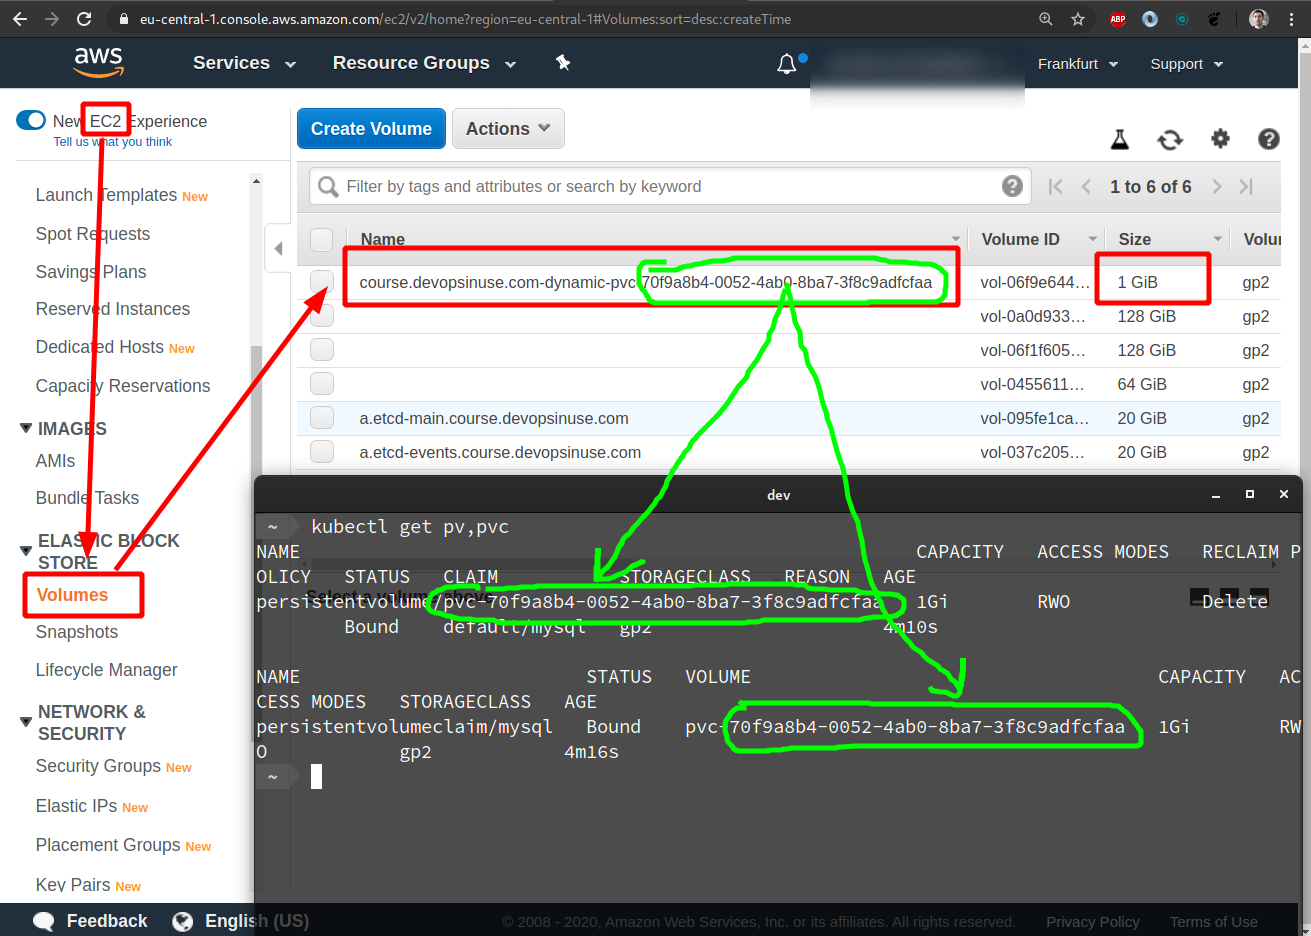
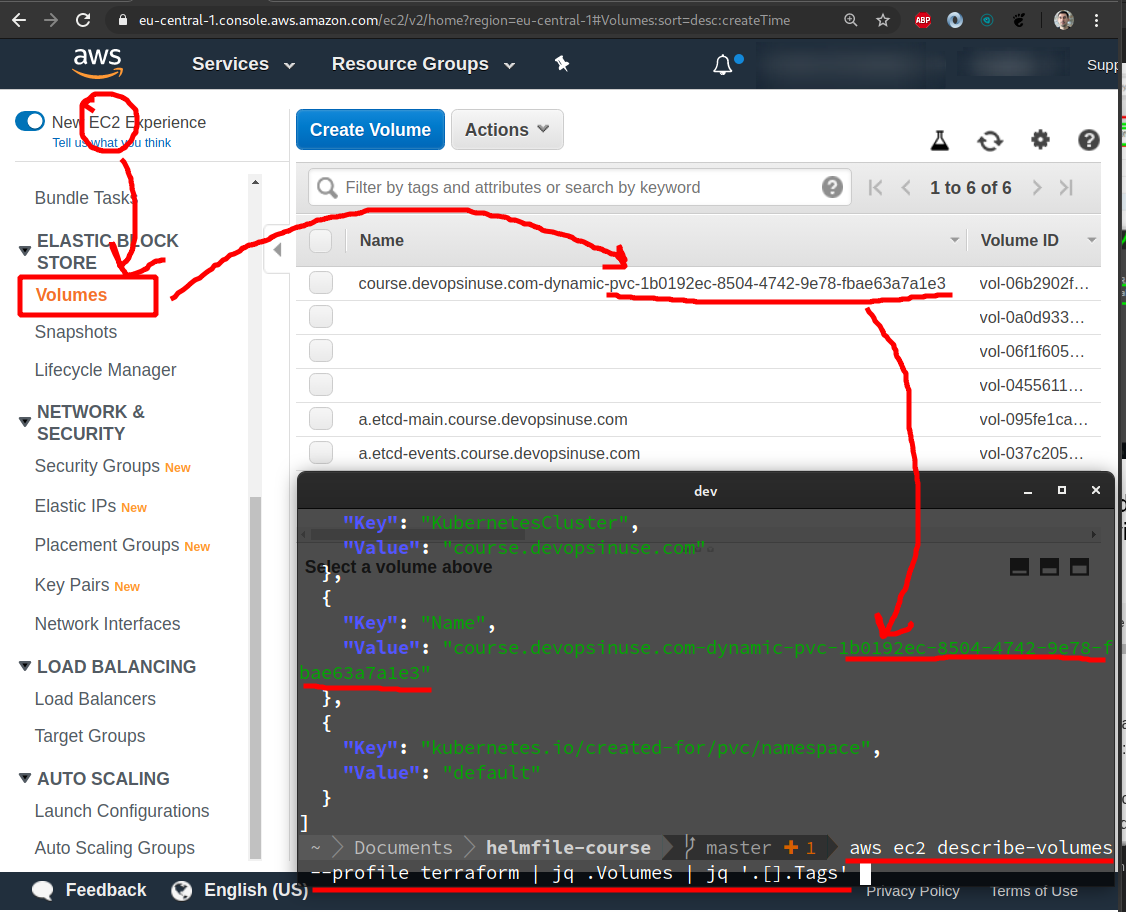
Adding 28,29,30. k8s

Changed region(s): [[0.0, 0.0, 1.0, 1.0]]

diff --git a/Content.md b/Content.md
@@ -32,6 +32,7 @@
   - [27. Allow NodePort in AWS Security Group section manually in case you like it more](#27-allow-nodeport-in-aws-security-group-section-manually-in-case-you-like-it-more)
   - [28. MySQL helm chart deployment with Persistent Volume](#28-mysql-helm-chart-deployment-with-persistent-volume)
   - [29. Connect to your MySQL deployment running in your Kubernetes cluster in AWS via an extra ubuntu pod](#29-connect-to-your-mysql-deployment-running-in-your-kubernetes-cluster-in-aws-via-an-extra-ubuntu-pod)
+  - [30. Connect to your MySQL deployment running in your Kubernetes cluster in AWS via dbeaver or your favourite GUI program](#30-connect-to-your-mysql-deployment-running-in-your-kubernetes-cluster-in-aws-via-dbeaver-or-your-favourite-gui-program)
 
 
 
@@ -1318,6 +1319,10 @@ node	ip-172-20-52-232.eu-central-1.compute.internal	18.196.157.47
 
 <!-- - [28. MySQL helm chart deployment with Persistent Volume](#28-mysql-helm-chart-deployment-with-persistent-volume) -->
 
+![](img/mysql-9.png)
+
+![](img/mysql-10.png)
+
 Search for MySQL helm chart (helm v3):
 ```bash
 helm3 repo list                          
@@ -1333,19 +1338,24 @@ stable/mysql    	1.6.2        	5.7.28     	Fast, reliable, scalable, and easy to
 Try to use `helm3 template` command to see what you are about to be deploying to your Kubernetes cluster in AWS
 
 ```bash
-# deployment.yaml file
+# template your mysql helm chart 
+# before you going to deploy it to Kubenretes cluster
 helm3 template \
 mysql \
 --set persistence.enabled=true \
 --set persistence.size=1Gi \
+--set mysqlRootPassword=Start123 \
 stable/mysql | less
 ```
+
+Deploy **MySQL helm chart** from a **"stable"** helm chart repository
 
 ```bash
 helm3 install \
 mysql \
 --set persistence.enabled=true \
 --set persistence.size=1Gi \
+--set mysqlRootPassword=Start123 \
 stable/mysql 
 
 ...
@@ -1378,12 +1388,48 @@ To connect to your database directly from outside the K8s cluster:
 
 ```
 
+
+```bash
+aws ec2 describe-volumes --profile terraform | jq .Volumes | jq '.[].Tags'
+
+...
+[
+  {
+    "Key": "kubernetes.io/created-for/pv/name",
+    "Value": "pvc-1b0192ec-8504-4742-9e78-fbae63a7a1e3"
+  },
+  {
+    "Key": "kubernetes.io/created-for/pvc/name",
+    "Value": "mysql"
+  },
+  {
+    "Key": "kubernetes.io/cluster/course.devopsinuse.com",
+    "Value": "owned"
+  },
+  {
+    "Key": "KubernetesCluster",
+    "Value": "course.devopsinuse.com"
+  },
+  {
+    "Key": "Name",
+    "Value": "course.devopsinuse.com-dynamic-pvc-1b0192ec-8504-4742-9e78-fbae63a7a1e3"
+  },
+  {
+    "Key": "kubernetes.io/created-for/pvc/namespace",
+    "Value": "default"
+  }
+]
+
+```
+
+
 ![](img/mysql-1.png)
 
 Please check that one **persistent volume has been crerated in your Kubenretes cluster** as well as in **your AWS console**.
 
 ![](img/mysql-2.png)
 
+![](img/mysql-3.png)
 
 ### 29. Connect to your MySQL deployment running in your Kubernetes cluster in AWS via an extra ubuntu pod
 <!-- - [29. Connect to your MySQL deployment running in your Kubernetes cluster in AWS via an extra ubuntu pod](#29-connect-to-your-mysql-deployment-running-in-your-kubernetes-cluster-in-aws-via-an-extra-ubuntu-pod) -->
@@ -1404,29 +1450,31 @@ To **connect to your database**:
     $ apt-get update && apt-get install mysql-client -y
 
 3. **Connect using the mysql cli**, then provide your password:
+```bash
     $ mysql -h mysql -p
+    $ create database devopsinuse;
+```
 
-To **connect to your database directly from outside the K8s cluster**:
-    MYSQL_HOST=127.0.0.1
-    MYSQL_PORT=3306
+![](img/mysql-4.png)
 
-    # Execute the following command to route the connection:
-    kubectl port-forward svc/mysql 3306
-
-    mysql -h ${MYSQL_HOST} -P${MYSQL_PORT} -u root -p${MYSQL_ROOT_PASSWORD}
+![](img/mysql-5.png)
 
 ### 30. Connect to your MySQL deployment running in your Kubernetes cluster in AWS via dbeaver or your favourite GUI program
 
 **Upgrade your MySQL** deployment and add NodePort type of Kubernetes service and set `nodePort` value to 30333
 
 ```bash
-helm3 upgrade \
-mysql \
+helm3 template mysql stable/mysql \
 --set persistence.enabled=true \
 --set persistence.size=1Gi \
---set service.type=NodePort\
---set service.nodePort=30333 \
-stable/mysql 
+--set service.type=NodePort \
+--set service.nodePort=30333 | less
+
+helm3 upgrade mysql stable/mysql \
+--set persistence.enabled=true \
+--set persistence.size=1Gi \
+--set service.type=NodePort \
+--set service.nodePort=30333 
 ```
 
 **Setup SSH tunnel** to MySQL NodePort 20333
@@ -1437,12 +1485,22 @@ ssh -L30333:127.0.0.1:30333 \
 admin@18.184.212.193
 ```
 
-**Determine** root password
-```bash
-MYSQL_ROOT_PASSWORD=$(kubectl get secret --namespace default mysql -o jsonpath="{.data.mysql-root-password}" | base64 --decode; echo)
+![](img/mysql-6.png)
 
-echo $MYSQL_ROOT_PASSWORD
+![](img/mysql-7.png)
+
+![](img/mysql-8.png)
+
+To **delete mysql helm chart** deployment from a Kubernetes cluster in AW
+```bash
+helm3 delete mysql
 ```
 
 
+
+
+
+
 <!-- echo "..." | sed -E  's/^[#]{2,} (.*)/- [\1](#\L\1)/; :a s/(\(#[^ ]+) /\1-/g; ta' | grep -e  "-\s\[.*" -->
+
+
